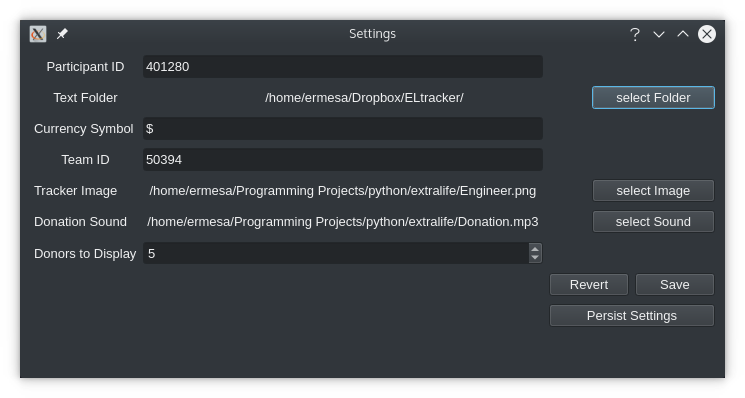
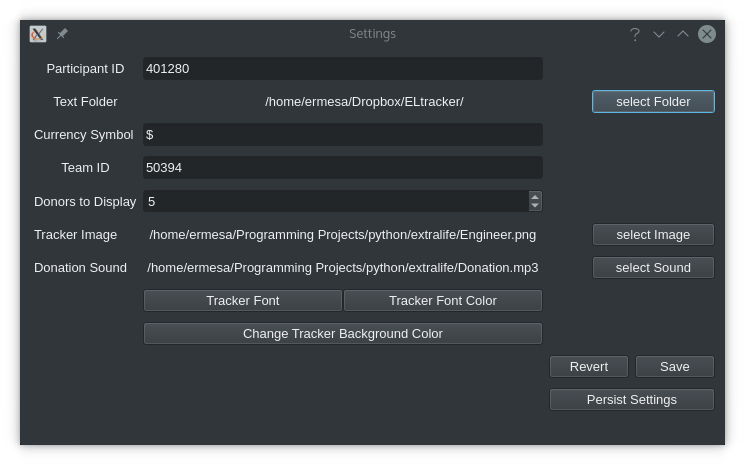
Updated documenation for new tracker options
Also, moved a few settings in the settings window to better group the settings.

diff --git a/eldonationtracker/settings.py b/eldonationtracker/settings.py
@@ -13,9 +13,9 @@ from PyQt5 import QtCore, QtGui, QtWidgets
 class Ui_Dialog(object):
     def setupUi(self, Dialog):
         Dialog.setObjectName("Dialog")
-        Dialog.resize(697, 356)
+        Dialog.resize(697, 392)
         self.layoutWidget = QtWidgets.QWidget(Dialog)
-        self.layoutWidget.setGeometry(QtCore.QRect(10, 0, 681, 359))
+        self.layoutWidget.setGeometry(QtCore.QRect(10, 0, 681, 374))
         self.layoutWidget.setObjectName("layoutWidget")
         self.gridLayout = QtWidgets.QGridLayout(self.layoutWidget)
         self.gridLayout.setSizeConstraint(QtWidgets.QLayout.SetDefaultConstraint)
@@ -24,7 +24,7 @@ class Ui_Dialog(object):
         self.gridLayout.setObjectName("gridLayout")
         self.label_6 = QtWidgets.QLabel(self.layoutWidget)
         self.label_6.setObjectName("label_6")
-        self.gridLayout.addWidget(self.label_6, 5, 0, 1, 1)
+        self.gridLayout.addWidget(self.label_6, 6, 0, 1, 1)
         self.pushButtonSelectFolder = QtWidgets.QPushButton(self.layoutWidget)
         self.pushButtonSelectFolder.setObjectName("pushButtonSelectFolder")
         self.gridLayout.addWidget(self.pushButtonSelectFolder, 1, 3, 1, 2)
@@ -38,32 +38,38 @@ class Ui_Dialog(object):
         self.gridLayout.addWidget(self.label_2, 1, 0, 1, 1)
         self.pushButtonRevert = QtWidgets.QPushButton(self.layoutWidget)
         self.pushButtonRevert.setObjectName("pushButtonRevert")
-        self.gridLayout.addWidget(self.pushButtonRevert, 9, 2, 1, 2)
+        self.gridLayout.addWidget(self.pushButtonRevert, 10, 2, 1, 2)
         self.pushButton_sound = QtWidgets.QPushButton(self.layoutWidget)
         self.pushButton_sound.setObjectName("pushButton_sound")
-        self.gridLayout.addWidget(self.pushButton_sound, 5, 3, 1, 2)
-        self.label_donors_to_display = QtWidgets.QLabel(self.layoutWidget)
-        self.label_donors_to_display.setObjectName("label_donors_to_display")
-        self.gridLayout.addWidget(self.label_donors_to_display, 6, 0, 1, 1)
+        self.gridLayout.addWidget(self.pushButton_sound, 6, 3, 1, 2)
         self.lineEditTeamID = QtWidgets.QLineEdit(self.layoutWidget)
         self.lineEditTeamID.setObjectName("lineEditTeamID")
         self.gridLayout.addWidget(self.lineEditTeamID, 3, 1, 1, 1)
         self.label_tracker_image = QtWidgets.QLabel(self.layoutWidget)
         self.label_tracker_image.setAlignment(QtCore.Qt.AlignCenter)
         self.label_tracker_image.setObjectName("label_tracker_image")
-        self.gridLayout.addWidget(self.label_tracker_image, 4, 1, 1, 1)
+        self.gridLayout.addWidget(self.label_tracker_image, 5, 1, 1, 1)
         self.lineEditParticipantID = QtWidgets.QLineEdit(self.layoutWidget)
         self.lineEditParticipantID.setObjectName("lineEditParticipantID")
         self.gridLayout.addWidget(self.lineEditParticipantID, 0, 1, 1, 1)
         self.pushButton_persistentsave = QtWidgets.QPushButton(self.layoutWidget)
         self.pushButton_persistentsave.setObjectName("pushButton_persistentsave")
-        self.gridLayout.addWidget(self.pushButton_persistentsave, 10, 2, 1, 3)
+        self.gridLayout.addWidget(self.pushButton_persistentsave, 11, 2, 1, 3)
         self.label_3 = QtWidgets.QLabel(self.layoutWidget)
         self.label_3.setObjectName("label_3")
         self.gridLayout.addWidget(self.label_3, 2, 0, 1, 1)
         self.label_5 = QtWidgets.QLabel(self.layoutWidget)
         self.label_5.setObjectName("label_5")
-        self.gridLayout.addWidget(self.label_5, 4, 0, 1, 1)
+        self.gridLayout.addWidget(self.label_5, 5, 0, 1, 1)
+        self.horizontalLayout_2 = QtWidgets.QHBoxLayout()
+        self.horizontalLayout_2.setObjectName("horizontalLayout_2")
+        self.pushButton_font = QtWidgets.QPushButton(self.layoutWidget)
+        self.pushButton_font.setObjectName("pushButton_font")
+        self.horizontalLayout_2.addWidget(self.pushButton_font)
+        self.pushButton_font_color = QtWidgets.QPushButton(self.layoutWidget)
+        self.pushButton_font_color.setObjectName("pushButton_font_color")
+        self.horizontalLayout_2.addWidget(self.pushButton_font_color)
+        self.gridLayout.addLayout(self.horizontalLayout_2, 8, 1, 1, 1)
         self.lineEditCurrencySymbol = QtWidgets.QLineEdit(self.layoutWidget)
         self.lineEditCurrencySymbol.setObjectName("lineEditCurrencySymbol")
         self.gridLayout.addWidget(self.lineEditCurrencySymbol, 2, 1, 1, 1)
@@ -73,33 +79,27 @@ class Ui_Dialog(object):
         self.gridLayout.addWidget(self.label, 0, 0, 1, 1)
         self.pushButton_tracker_image = QtWidgets.QPushButton(self.layoutWidget)
         self.pushButton_tracker_image.setObjectName("pushButton_tracker_image")
-        self.gridLayout.addWidget(self.pushButton_tracker_image, 4, 3, 1, 2)
-        self.spinBox_DonorsToDisplay = QtWidgets.QSpinBox(self.layoutWidget)
-        self.spinBox_DonorsToDisplay.setObjectName("spinBox_DonorsToDisplay")
-        self.gridLayout.addWidget(self.spinBox_DonorsToDisplay, 6, 1, 1, 1)
+        self.gridLayout.addWidget(self.pushButton_tracker_image, 5, 3, 1, 2)
         self.labelTextFolder = QtWidgets.QLabel(self.layoutWidget)
         self.labelTextFolder.setAlignment(QtCore.Qt.AlignCenter)
         self.labelTextFolder.setObjectName("labelTextFolder")
         self.gridLayout.addWidget(self.labelTextFolder, 1, 1, 1, 2)
         self.pushButton_tracker_background = QtWidgets.QPushButton(self.layoutWidget)
         self.pushButton_tracker_background.setObjectName("pushButton_tracker_background")
-        self.gridLayout.addWidget(self.pushButton_tracker_background, 8, 1, 1, 1)
+        self.gridLayout.addWidget(self.pushButton_tracker_background, 9, 1, 1, 1)
         self.label_sound = QtWidgets.QLabel(self.layoutWidget)
         self.label_sound.setAlignment(QtCore.Qt.AlignCenter)
         self.label_sound.setObjectName("label_sound")
-        self.gridLayout.addWidget(self.label_sound, 5, 1, 1, 1)
+        self.gridLayout.addWidget(self.label_sound, 6, 1, 1, 1)
         self.pushButtonSave = QtWidgets.QPushButton(self.layoutWidget)
         self.pushButtonSave.setObjectName("pushButtonSave")
-        self.gridLayout.addWidget(self.pushButtonSave, 9, 4, 1, 1)
-        self.horizontalLayout_2 = QtWidgets.QHBoxLayout()
-        self.horizontalLayout_2.setObjectName("horizontalLayout_2")
-        self.pushButton_font = QtWidgets.QPushButton(self.layoutWidget)
-        self.pushButton_font.setObjectName("pushButton_font")
-        self.horizontalLayout_2.addWidget(self.pushButton_font)
-        self.pushButton_font_color = QtWidgets.QPushButton(self.layoutWidget)
-        self.pushButton_font_color.setObjectName("pushButton_font_color")
-        self.horizontalLayout_2.addWidget(self.pushButton_font_color)
-        self.gridLayout.addLayout(self.horizontalLayout_2, 7, 1, 1, 1)
+        self.gridLayout.addWidget(self.pushButtonSave, 10, 4, 1, 1)
+        self.label_donors_to_display = QtWidgets.QLabel(self.layoutWidget)
+        self.label_donors_to_display.setObjectName("label_donors_to_display")
+        self.gridLayout.addWidget(self.label_donors_to_display, 4, 0, 1, 1)
+        self.spinBox_DonorsToDisplay = QtWidgets.QSpinBox(self.layoutWidget)
+        self.spinBox_DonorsToDisplay.setObjectName("spinBox_DonorsToDisplay")
+        self.gridLayout.addWidget(self.spinBox_DonorsToDisplay, 4, 1, 1, 1)
 
         self.retranslateUi(Dialog)
         QtCore.QMetaObject.connectSlotsByName(Dialog)
@@ -113,17 +113,17 @@ class Ui_Dialog(object):
         self.label_2.setText(_translate("Dialog", "Text Folder"))
         self.pushButtonRevert.setText(_translate("Dialog", "Revert"))
         self.pushButton_sound.setText(_translate("Dialog", "select Sound"))
-        self.label_donors_to_display.setText(_translate("Dialog", "Donors to Display"))
         self.label_tracker_image.setText(_translate("Dialog", "No Image Selected"))
         self.pushButton_persistentsave.setStatusTip(_translate("Dialog", "To have the settings persist across upgrades"))
         self.pushButton_persistentsave.setText(_translate("Dialog", "Persist Settings"))
         self.label_3.setText(_translate("Dialog", "Currency Symbol"))
         self.label_5.setText(_translate("Dialog", "Tracker Image"))
+        self.pushButton_font.setText(_translate("Dialog", "Tracker Font"))
+        self.pushButton_font_color.setText(_translate("Dialog", "Tracker Font Color"))
         self.label.setText(_translate("Dialog", "Participant ID"))
         self.pushButton_tracker_image.setText(_translate("Dialog", "select Image"))
         self.labelTextFolder.setText(_translate("Dialog", "No Folder Selected"))
         self.pushButton_tracker_background.setText(_translate("Dialog", "Change Tracker Background Color"))
         self.label_sound.setText(_translate("Dialog", "No Sound Selected"))
         self.pushButtonSave.setText(_translate("Dialog", "Save"))
-        self.pushButton_font.setText(_translate("Dialog", "Tracker Font"))
-        self.pushButton_font_color.setText(_translate("Dialog", "Tracker Font Color"))
+        self.label_donors_to_display.setText(_translate("Dialog", "Donors to Display"))

diff --git a/docs/usage.rst b/docs/usage.rst
@@ -35,13 +35,29 @@ As you can see, right at the end it says "participantID=401280". If you look bac
 
 #. The next thing to change is the text folder. This is where eldonationtracker will create text files that you will use as inputs in OBS or XSplit. Every time something changes - you get a donation or the team (if you're part of one) gets a donation, those text files will change (if eldonationtracker is running) and so they'll change in real time on your screen in OBS or XSplit. 
 
-#. Next up is the Team ID. If you don't have a team, just make this blank. (No spaces!) Othewise find your Team ID in a similar way as you found your participant ID. Go to your team page and the ID will be at the end of that URL.
+#. Now let's edit the Team ID. If you don't have a team, just make this blank. (No spaces!) Othewise find your Team ID in a similar way as you found your participant ID. Go to your team page and the ID will be at the end of that URL.
 
-#. Now you should select an image with a transparent background (most likely a gif or png) that will appear when someone donates. I'll show what it'll look like in a minute.
+#. Edit the Donors to Display field. Some of the text files produced by eldonationtracker (lastNDonations, topNdonors, etc) determine how many donors or donations to write to the file. I usually put it at about five, but I also don't get a lot of donations most years.
 
-#. Also select an MP3 file you would like to play when you get a donation. Keep it shorter than 15 seconds. 
+The final settings all deal with the tracker window. If you scroll just a little lower in this tutorial you'll see a rectangle with a green
+background and an image and some text appearing and disappearing. That window is what will appear on your screen when someone donates if you've
+properly set up OBS or XSplit to capture those windows.
 
-#. The last field to edit is the Donors to Display field. Some of the text files produced by eldonationtracker (lastNDonations, topNdonors, etc) determine how many donors or donations to write to the file. I usually put it at about five, but I also don't get a lot of donations most years.
+#. You should select an image with a transparent background (most likely a gif or png) that will appear when someone donates. I'll show what it'll look like in a minute.
+
+#. Also select an MP3 file you would like to play when you get a donation. Keep it shorter than 15 seconds.
+
+#. With the last 3 buttons you can change the Font type and size, the font color, and the background color.
+I recommend a size around 48-50 (you may need to type it in yourself if it's not a selectable number).
+For the background color, it's probably best to stick with the chromakey green I've selected because
+that makes it incredibly easy for OBS or XSplit to make the background disappear so that on your
+screen you just see the image and text (not the green background). But if the image you want to use
+has a lot of green in it, you may need to choose bluescreen blue or some other color that will also work well with
+OBS or XSplit's chromakey filters.
+
+.. warning::
+
+    Because of the way QT color chooser dialogue windows work, if you pick a color and hit cancel, it will still change the color in the Tracker window. (whereas you have to click "ok" in the Font chooser window to change the font. Quitting out of everything without saving should bring back the last color you saved (or the default).
 
 #. Finally, it's time to save your settings. The BEST option is to pick Persist Settings. Then it will save to a special location on your computer so that even as you upgrade (either grab new zip files from Github or update via PyPi or git pull) you won't have to keep inputting your settings. If you know for sure it's what you want to do, you can hit Save and it'll save in the folder where you're running the program. It *should* work on Windows and may or may not be there next time you launch on Linux. If you have not hit save or Persist Settings yet, Revert will reload whatever was in the file when you hit the Settings button.
 
